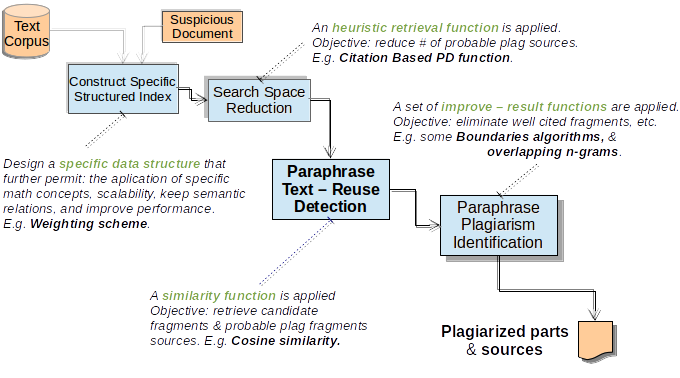
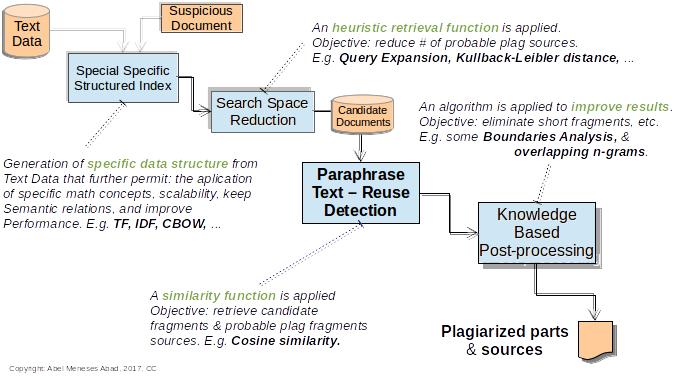
[doc] Adding section of Types of Plagiarism, & some sections 	of Text Reuse Detection Chapter. E.g.: Types of Reuse. [design] New version of Text Reuse Detection Flow. [dev] Adding some codes for better visualization of text-fonts, 	& images.
[TODO] Diapo matching paraphrase types vs types of similarity
	distances.
	Diapos with my apportations & planned papers.

diff --git a/revealjs-md-presentation/plugin/markdown/marked.js b/revealjs-md-presentation/plugin/markdown/marked.js
@@ -1,37 +1,6 @@
 /**
  * marked - a markdown parser
- * Copyright (c) 2011-2013, Christopher Jeffrey. (MIT Licensed)
+ * Copyright (c) 2011-2014, Christopher Jeffrey. (MIT Licensed)
  * https://github.com/chjj/marked
  */
-
-(function(){var block={newline:/^\n+/,code:/^( {4}[^\n]+\n*)+/,fences:noop,hr:/^( *[-*_]){3,} *(?:\n+|$)/,heading:/^ *(#{1,6}) *([^\n]+?) *#* *(?:\n+|$)/,nptable:noop,lheading:/^([^\n]+)\n *(=|-){3,} *\n*/,blockquote:/^( *>[^\n]+(\n[^\n]+)*\n*)+/,list:/^( *)(bull) [\s\S]+?(?:hr|\n{2,}(?! )(?!\1bull )\n*|\s*$)/,html:/^ *(?:comment|closed|closing) *(?:\n{2,}|\s*$)/,def:/^ *\[([^\]]+)\]: *<?([^\s>]+)>?(?: +["(]([^\n]+)[")])? *(?:\n+|$)/,table:noop,paragraph:/^((?:[^\n]+\n?(?!hr|heading|lheading|blockquote|tag|def))+)\n*/,
-text:/^[^\n]+/};block.bullet=/(?:[*+-]|\d+\.)/;block.item=/^( *)(bull) [^\n]*(?:\n(?!\1bull )[^\n]*)*/;block.item=replace(block.item,"gm")(/bull/g,block.bullet)();block.list=replace(block.list)(/bull/g,block.bullet)("hr",/\n+(?=(?: *[-*_]){3,} *(?:\n+|$))/)();block._tag="(?!(?:"+"a|em|strong|small|s|cite|q|dfn|abbr|data|time|code"+"|var|samp|kbd|sub|sup|i|b|u|mark|ruby|rt|rp|bdi|bdo"+"|span|br|wbr|ins|del|img)\\b)\\w+(?!:/|@)\\b";block.html=replace(block.html)("comment",/\x3c!--[\s\S]*?--\x3e/)("closed",
-/<(tag)[\s\S]+?<\/\1>/)("closing",/<tag(?:"[^"]*"|'[^']*'|[^'">])*?>/)(/tag/g,block._tag)();block.paragraph=replace(block.paragraph)("hr",block.hr)("heading",block.heading)("lheading",block.lheading)("blockquote",block.blockquote)("tag","<"+block._tag)("def",block.def)();block.normal=merge({},block);block.gfm=merge({},block.normal,{fences:/^ *(`{3,}|~{3,}) *(\S+)? *\n([\s\S]+?)\s*\1 *(?:\n+|$)/,paragraph:/^/});block.gfm.paragraph=replace(block.paragraph)("(?!","(?!"+block.gfm.fences.source.replace("\\1",
-"\\2")+"|")();block.tables=merge({},block.gfm,{nptable:/^ *(\S.*\|.*)\n *([-:]+ *\|[-| :]*)\n((?:.*\|.*(?:\n|$))*)\n*/,table:/^ *\|(.+)\n *\|( *[-:]+[-| :]*)\n((?: *\|.*(?:\n|$))*)\n*/});function Lexer(options){this.tokens=[];this.tokens.links={};this.options=options||marked.defaults;this.rules=block.normal;if(this.options.gfm)if(this.options.tables)this.rules=block.tables;else this.rules=block.gfm}Lexer.rules=block;Lexer.lex=function(src,options){var lexer=new Lexer(options);return lexer.lex(src)};
-Lexer.prototype.lex=function(src){src=src.replace(/\r\n|\r/g,"\n").replace(/\t/g,"    ").replace(/\u00a0/g," ").replace(/\u2424/g,"\n");return this.token(src,true)};Lexer.prototype.token=function(src,top){var src=src.replace(/^ +$/gm,""),next,loose,cap,bull,b,item,space,i,l;while(src){if(cap=this.rules.newline.exec(src)){src=src.substring(cap[0].length);if(cap[0].length>1)this.tokens.push({type:"space"})}if(cap=this.rules.code.exec(src)){src=src.substring(cap[0].length);cap=cap[0].replace(/^ {4}/gm,
-"");this.tokens.push({type:"code",text:!this.options.pedantic?cap.replace(/\n+$/,""):cap});continue}if(cap=this.rules.fences.exec(src)){src=src.substring(cap[0].length);this.tokens.push({type:"code",lang:cap[2],text:cap[3]});continue}if(cap=this.rules.heading.exec(src)){src=src.substring(cap[0].length);this.tokens.push({type:"heading",depth:cap[1].length,text:cap[2]});continue}if(top&&(cap=this.rules.nptable.exec(src))){src=src.substring(cap[0].length);item={type:"table",header:cap[1].replace(/^ *| *\| *$/g,
-"").split(/ *\| */),align:cap[2].replace(/^ *|\| *$/g,"").split(/ *\| */),cells:cap[3].replace(/\n$/,"").split("\n")};for(i=0;i<item.align.length;i++)if(/^ *-+: *$/.test(item.align[i]))item.align[i]="right";else if(/^ *:-+: *$/.test(item.align[i]))item.align[i]="center";else if(/^ *:-+ *$/.test(item.align[i]))item.align[i]="left";else item.align[i]=null;for(i=0;i<item.cells.length;i++)item.cells[i]=item.cells[i].split(/ *\| */);this.tokens.push(item);continue}if(cap=this.rules.lheading.exec(src)){src=
-src.substring(cap[0].length);this.tokens.push({type:"heading",depth:cap[2]==="="?1:2,text:cap[1]});continue}if(cap=this.rules.hr.exec(src)){src=src.substring(cap[0].length);this.tokens.push({type:"hr"});continue}if(cap=this.rules.blockquote.exec(src)){src=src.substring(cap[0].length);this.tokens.push({type:"blockquote_start"});cap=cap[0].replace(/^ *> ?/gm,"");this.token(cap,top);this.tokens.push({type:"blockquote_end"});continue}if(cap=this.rules.list.exec(src)){src=src.substring(cap[0].length);
-bull=cap[2];this.tokens.push({type:"list_start",ordered:bull.length>1});cap=cap[0].match(this.rules.item);next=false;l=cap.length;i=0;for(;i<l;i++){item=cap[i];space=item.length;item=item.replace(/^ *([*+-]|\d+\.) +/,"");if(~item.indexOf("\n ")){space-=item.length;item=!this.options.pedantic?item.replace(new RegExp("^ {1,"+space+"}","gm"),""):item.replace(/^ {1,4}/gm,"")}if(this.options.smartLists&&i!==l-1){b=block.bullet.exec(cap[i+1])[0];if(bull!==b&&!(bull.length>1&&b.length>1)){src=cap.slice(i+
-1).join("\n")+src;i=l-1}}loose=next||/\n\n(?!\s*$)/.test(item);if(i!==l-1){next=item[item.length-1]==="\n";if(!loose)loose=next}this.tokens.push({type:loose?"loose_item_start":"list_item_start"});this.token(item,false);this.tokens.push({type:"list_item_end"})}this.tokens.push({type:"list_end"});continue}if(cap=this.rules.html.exec(src)){src=src.substring(cap[0].length);this.tokens.push({type:this.options.sanitize?"paragraph":"html",pre:cap[1]==="pre"||cap[1]==="script",text:cap[0]});continue}if(top&&
-(cap=this.rules.def.exec(src))){src=src.substring(cap[0].length);this.tokens.links[cap[1].toLowerCase()]={href:cap[2],title:cap[3]};continue}if(top&&(cap=this.rules.table.exec(src))){src=src.substring(cap[0].length);item={type:"table",header:cap[1].replace(/^ *| *\| *$/g,"").split(/ *\| */),align:cap[2].replace(/^ *|\| *$/g,"").split(/ *\| */),cells:cap[3].replace(/(?: *\| *)?\n$/,"").split("\n")};for(i=0;i<item.align.length;i++)if(/^ *-+: *$/.test(item.align[i]))item.align[i]="right";else if(/^ *:-+: *$/.test(item.align[i]))item.align[i]=
-"center";else if(/^ *:-+ *$/.test(item.align[i]))item.align[i]="left";else item.align[i]=null;for(i=0;i<item.cells.length;i++)item.cells[i]=item.cells[i].replace(/^ *\| *| *\| *$/g,"").split(/ *\| */);this.tokens.push(item);continue}if(top&&(cap=this.rules.paragraph.exec(src))){src=src.substring(cap[0].length);this.tokens.push({type:"paragraph",text:cap[1][cap[1].length-1]==="\n"?cap[1].slice(0,-1):cap[1]});continue}if(cap=this.rules.text.exec(src)){src=src.substring(cap[0].length);this.tokens.push({type:"text",
-text:cap[0]});continue}if(src)throw new Error("Infinite loop on byte: "+src.charCodeAt(0));}return this.tokens};var inline={escape:/^\\([\\`*{}\[\]()#+\-.!_>])/,autolink:/^<([^ >]+(@|:\/)[^ >]+)>/,url:noop,tag:/^\x3c!--[\s\S]*?--\x3e|^<\/?\w+(?:"[^"]*"|'[^']*'|[^'">])*?>/,link:/^!?\[(inside)\]\(href\)/,reflink:/^!?\[(inside)\]\s*\[([^\]]*)\]/,nolink:/^!?\[((?:\[[^\]]*\]|[^\[\]])*)\]/,strong:/^__([\s\S]+?)__(?!_)|^\*\*([\s\S]+?)\*\*(?!\*)/,em:/^\b_((?:__|[\s\S])+?)_\b|^\*((?:\*\*|[\s\S])+?)\*(?!\*)/,
-code:/^(`+)\s*([\s\S]*?[^`])\s*\1(?!`)/,br:/^ {2,}\n(?!\s*$)/,del:noop,text:/^[\s\S]+?(?=[\\<!\[_*`]| {2,}\n|$)/};inline._inside=/(?:\[[^\]]*\]|[^\]]|\](?=[^\[]*\]))*/;inline._href=/\s*<?([^\s]*?)>?(?:\s+['"]([\s\S]*?)['"])?\s*/;inline.link=replace(inline.link)("inside",inline._inside)("href",inline._href)();inline.reflink=replace(inline.reflink)("inside",inline._inside)();inline.normal=merge({},inline);inline.pedantic=merge({},inline.normal,{strong:/^__(?=\S)([\s\S]*?\S)__(?!_)|^\*\*(?=\S)([\s\S]*?\S)\*\*(?!\*)/,
-em:/^_(?=\S)([\s\S]*?\S)_(?!_)|^\*(?=\S)([\s\S]*?\S)\*(?!\*)/});inline.gfm=merge({},inline.normal,{escape:replace(inline.escape)("])","~|])")(),url:/^(https?:\/\/[^\s<]+[^<.,:;"')\]\s])/,del:/^~~(?=\S)([\s\S]*?\S)~~/,text:replace(inline.text)("]|","~]|")("|","|https?://|")()});inline.breaks=merge({},inline.gfm,{br:replace(inline.br)("{2,}","*")(),text:replace(inline.gfm.text)("{2,}","*")()});function InlineLexer(links,options){this.options=options||marked.defaults;this.links=links;this.rules=inline.normal;
-if(!this.links)throw new Error("Tokens array requires a `links` property.");if(this.options.gfm)if(this.options.breaks)this.rules=inline.breaks;else this.rules=inline.gfm;else if(this.options.pedantic)this.rules=inline.pedantic}InlineLexer.rules=inline;InlineLexer.output=function(src,links,options){var inline=new InlineLexer(links,options);return inline.output(src)};InlineLexer.prototype.output=function(src){var out="",link,text,href,cap;while(src){if(cap=this.rules.escape.exec(src)){src=src.substring(cap[0].length);
-out+=cap[1];continue}if(cap=this.rules.autolink.exec(src)){src=src.substring(cap[0].length);if(cap[2]==="@"){text=cap[1][6]===":"?this.mangle(cap[1].substring(7)):this.mangle(cap[1]);href=this.mangle("mailto:")+text}else{text=escape(cap[1]);href=text}out+='<a href="'+href+'">'+text+"</a>";continue}if(cap=this.rules.url.exec(src)){src=src.substring(cap[0].length);text=escape(cap[1]);href=text;out+='<a href="'+href+'">'+text+"</a>";continue}if(cap=this.rules.tag.exec(src)){src=src.substring(cap[0].length);
-out+=this.options.sanitize?escape(cap[0]):cap[0];continue}if(cap=this.rules.link.exec(src)){src=src.substring(cap[0].length);out+=this.outputLink(cap,{href:cap[2],title:cap[3]});continue}if((cap=this.rules.reflink.exec(src))||(cap=this.rules.nolink.exec(src))){src=src.substring(cap[0].length);link=(cap[2]||cap[1]).replace(/\s+/g," ");link=this.links[link.toLowerCase()];if(!link||!link.href){out+=cap[0][0];src=cap[0].substring(1)+src;continue}out+=this.outputLink(cap,link);continue}if(cap=this.rules.strong.exec(src)){src=
-src.substring(cap[0].length);out+="<strong>"+this.output(cap[2]||cap[1])+"</strong>";continue}if(cap=this.rules.em.exec(src)){src=src.substring(cap[0].length);out+="<em>"+this.output(cap[2]||cap[1])+"</em>";continue}if(cap=this.rules.code.exec(src)){src=src.substring(cap[0].length);out+="<code>"+escape(cap[2],true)+"</code>";continue}if(cap=this.rules.br.exec(src)){src=src.substring(cap[0].length);out+="<br>";continue}if(cap=this.rules.del.exec(src)){src=src.substring(cap[0].length);out+="<del>"+
-this.output(cap[1])+"</del>";continue}if(cap=this.rules.text.exec(src)){src=src.substring(cap[0].length);out+=escape(cap[0]);continue}if(src)throw new Error("Infinite loop on byte: "+src.charCodeAt(0));}return out};InlineLexer.prototype.outputLink=function(cap,link){if(cap[0][0]!=="!")return'<a href="'+escape(link.href)+'"'+(link.title?' title="'+escape(link.title)+'"':"")+">"+this.output(cap[1])+"</a>";else return'<img src="'+escape(link.href)+'" alt="'+escape(cap[1])+'"'+(link.title?' title="'+
-escape(link.title)+'"':"")+">"};InlineLexer.prototype.smartypants=function(text){if(!this.options.smartypants)return text;return text.replace(/--/g,"\u2014").replace(/'([^']*)'/g,"\u2018$1\u2019").replace(/"([^"]*)"/g,"\u201c$1\u201d").replace(/\.{3}/g,"\u2026")};InlineLexer.prototype.mangle=function(text){var out="",l=text.length,i=0,ch;for(;i<l;i++){ch=text.charCodeAt(i);if(Math.random()>0.5)ch="x"+ch.toString(16);out+="&#"+ch+";"}return out};function Parser(options){this.tokens=[];this.token=null;
-this.options=options||marked.defaults}Parser.parse=function(src,options){var parser=new Parser(options);return parser.parse(src)};Parser.prototype.parse=function(src){this.inline=new InlineLexer(src.links,this.options);this.tokens=src.reverse();var out="";while(this.next())out+=this.tok();return out};Parser.prototype.next=function(){return this.token=this.tokens.pop()};Parser.prototype.peek=function(){return this.tokens[this.tokens.length-1]||0};Parser.prototype.parseText=function(){var body=this.token.text;
-while(this.peek().type==="text")body+="\n"+this.next().text;return this.inline.output(body)};Parser.prototype.tok=function(){switch(this.token.type){case "space":return"";case "hr":return"<hr>\n";case "heading":return"<h"+this.token.depth+">"+this.inline.output(this.token.text)+"</h"+this.token.depth+">\n";case "code":if(this.options.highlight){var code=this.options.highlight(this.token.text,this.token.lang);if(code!=null&&code!==this.token.text){this.token.escaped=true;this.token.text=code}}if(!this.token.escaped)this.token.text=
-escape(this.token.text,true);return"<pre><code"+(this.token.lang?' class="'+this.options.langPrefix+this.token.lang+'"':"")+">"+this.token.text+"</code></pre>\n";case "table":var body="",heading,i,row,cell,j;body+="<thead>\n<tr>\n";for(i=0;i<this.token.header.length;i++){heading=this.inline.output(this.token.header[i]);body+=this.token.align[i]?'<th align="'+this.token.align[i]+'">'+heading+"</th>\n":"<th>"+heading+"</th>\n"}body+="</tr>\n</thead>\n";body+="<tbody>\n";for(i=0;i<this.token.cells.length;i++){row=
-this.token.cells[i];body+="<tr>\n";for(j=0;j<row.length;j++){cell=this.inline.output(row[j]);body+=this.token.align[j]?'<td align="'+this.token.align[j]+'">'+cell+"</td>\n":"<td>"+cell+"</td>\n"}body+="</tr>\n"}body+="</tbody>\n";return"<table>\n"+body+"</table>\n";case "blockquote_start":var body="";while(this.next().type!=="blockquote_end")body+=this.tok();return"<blockquote>\n"+body+"</blockquote>\n";case "list_start":var type=this.token.ordered?"ol":"ul",body="";while(this.next().type!=="list_end")body+=
-this.tok();return"<"+type+">\n"+body+"</"+type+">\n";case "list_item_start":var body="";while(this.next().type!=="list_item_end")body+=this.token.type==="text"?this.parseText():this.tok();return"<li>"+body+"</li>\n";case "loose_item_start":var body="";while(this.next().type!=="list_item_end")body+=this.tok();return"<li>"+body+"</li>\n";case "html":return!this.token.pre&&!this.options.pedantic?this.inline.output(this.token.text):this.token.text;case "paragraph":return"<p>"+this.inline.output(this.token.text)+
-"</p>\n";case "text":return"<p>"+this.parseText()+"</p>\n"}};function escape(html,encode){return html.replace(!encode?/&(?!#?\w+;)/g:/&/g,"&amp;").replace(/</g,"&lt;").replace(/>/g,"&gt;").replace(/"/g,"&quot;").replace(/'/g,"&#39;")}function replace(regex,opt){regex=regex.source;opt=opt||"";return function self(name,val){if(!name)return new RegExp(regex,opt);val=val.source||val;val=val.replace(/(^|[^\[])\^/g,"$1");regex=regex.replace(name,val);return self}}function noop(){}noop.exec=noop;function merge(obj){var i=
-1,target,key;for(;i<arguments.length;i++){target=arguments[i];for(key in target)if(Object.prototype.hasOwnProperty.call(target,key))obj[key]=target[key]}return obj}function marked(src,opt,callback){if(callback||typeof opt==="function"){if(!callback){callback=opt;opt=null}if(opt)opt=merge({},marked.defaults,opt);var tokens=Lexer.lex(tokens,opt),highlight=opt.highlight,pending=0,l=tokens.length,i=0;if(!highlight||highlight.length<3)return callback(null,Parser.parse(tokens,opt));var done=function(){delete opt.highlight;
-var out=Parser.parse(tokens,opt);opt.highlight=highlight;return callback(null,out)};for(;i<l;i++)(function(token){if(token.type!=="code")return;pending++;return highlight(token.text,token.lang,function(err,code){if(code==null||code===token.text)return--pending||done();token.text=code;token.escaped=true;--pending||done()})})(tokens[i]);return}try{if(opt)opt=merge({},marked.defaults,opt);return Parser.parse(Lexer.lex(src,opt),opt)}catch(e){e.message+="\nPlease report this to https://github.com/chjj/marked.";
-if((opt||marked.defaults).silent)return"<p>An error occured:</p><pre>"+escape(e.message+"",true)+"</pre>";throw e;}}marked.options=marked.setOptions=function(opt){merge(marked.defaults,opt);return marked};marked.defaults={gfm:true,tables:true,breaks:false,pedantic:false,sanitize:false,smartLists:false,silent:false,highlight:null,langPrefix:""};marked.Parser=Parser;marked.parser=Parser.parse;marked.Lexer=Lexer;marked.lexer=Lexer.lex;marked.InlineLexer=InlineLexer;marked.inlineLexer=InlineLexer.output;
-marked.parse=marked;if(typeof exports==="object")module.exports=marked;else if(typeof define==="function"&&define.amd)define(function(){return marked});else this.marked=marked}).call(function(){return this||(typeof window!=="undefined"?window:global)}());
+(function(){function e(e){this.tokens=[],this.tokens.links={},this.options=e||a.defaults,this.rules=p.normal,this.options.gfm&&(this.rules=this.options.tables?p.tables:p.gfm)}function t(e,t){if(this.options=t||a.defaults,this.links=e,this.rules=u.normal,this.renderer=this.options.renderer||new n,this.renderer.options=this.options,!this.links)throw new Error("Tokens array requires a `links` property.");this.options.gfm?this.rules=this.options.breaks?u.breaks:u.gfm:this.options.pedantic&&(this.rules=u.pedantic)}function n(e){this.options=e||{}}function r(e){this.tokens=[],this.token=null,this.options=e||a.defaults,this.options.renderer=this.options.renderer||new n,this.renderer=this.options.renderer,this.renderer.options=this.options}function s(e,t){return e.replace(t?/&/g:/&(?!#?\w+;)/g,"&amp;").replace(/</g,"&lt;").replace(/>/g,"&gt;").replace(/"/g,"&quot;").replace(/'/g,"&#39;")}function i(e){return e.replace(/&([#\w]+);/g,function(e,t){return t=t.toLowerCase(),"colon"===t?":":"#"===t.charAt(0)?String.fromCharCode("x"===t.charAt(1)?parseInt(t.substring(2),16):+t.substring(1)):""})}function l(e,t){return e=e.source,t=t||"",function n(r,s){return r?(s=s.source||s,s=s.replace(/(^|[^\[])\^/g,"$1"),e=e.replace(r,s),n):new RegExp(e,t)}}function o(){}function h(e){for(var t,n,r=1;r<arguments.length;r++){t=arguments[r];for(n in t)Object.prototype.hasOwnProperty.call(t,n)&&(e[n]=t[n])}return e}function a(t,n,i){if(i||"function"==typeof n){i||(i=n,n=null),n=h({},a.defaults,n||{});var l,o,p=n.highlight,u=0;try{l=e.lex(t,n)}catch(c){return i(c)}o=l.length;var g=function(e){if(e)return n.highlight=p,i(e);var t;try{t=r.parse(l,n)}catch(s){e=s}return n.highlight=p,e?i(e):i(null,t)};if(!p||p.length<3)return g();if(delete n.highlight,!o)return g();for(;u<l.length;u++)!function(e){return"code"!==e.type?--o||g():p(e.text,e.lang,function(t,n){return t?g(t):null==n||n===e.text?--o||g():(e.text=n,e.escaped=!0,void(--o||g()))})}(l[u])}else try{return n&&(n=h({},a.defaults,n)),r.parse(e.lex(t,n),n)}catch(c){if(c.message+="\nPlease report this to https://github.com/chjj/marked.",(n||a.defaults).silent)return"<p>An error occured:</p><pre>"+s(c.message+"",!0)+"</pre>";throw c}}var p={newline:/^\n+/,code:/^( {4}[^\n]+\n*)+/,fences:o,hr:/^( *[-*_]){3,} *(?:\n+|$)/,heading:/^ *(#{1,6}) *([^\n]+?) *#* *(?:\n+|$)/,nptable:o,lheading:/^([^\n]+)\n *(=|-){2,} *(?:\n+|$)/,blockquote:/^( *>[^\n]+(\n(?!def)[^\n]+)*\n*)+/,list:/^( *)(bull) [\s\S]+?(?:hr|def|\n{2,}(?! )(?!\1bull )\n*|\s*$)/,html:/^ *(?:comment *(?:\n|\s*$)|closed *(?:\n{2,}|\s*$)|closing *(?:\n{2,}|\s*$))/,def:/^ *\[([^\]]+)\]: *<?([^\s>]+)>?(?: +["(]([^\n]+)[")])? *(?:\n+|$)/,table:o,paragraph:/^((?:[^\n]+\n?(?!hr|heading|lheading|blockquote|tag|def))+)\n*/,text:/^[^\n]+/};p.bullet=/(?:[*+-]|\d+\.)/,p.item=/^( *)(bull) [^\n]*(?:\n(?!\1bull )[^\n]*)*/,p.item=l(p.item,"gm")(/bull/g,p.bullet)(),p.list=l(p.list)(/bull/g,p.bullet)("hr","\\n+(?=\\1?(?:[-*_] *){3,}(?:\\n+|$))")("def","\\n+(?="+p.def.source+")")(),p.blockquote=l(p.blockquote)("def",p.def)(),p._tag="(?!(?:a|em|strong|small|s|cite|q|dfn|abbr|data|time|code|var|samp|kbd|sub|sup|i|b|u|mark|ruby|rt|rp|bdi|bdo|span|br|wbr|ins|del|img)\\b)\\w+(?!:/|[^\\w\\s@]*@)\\b",p.html=l(p.html)("comment",/<!--[\s\S]*?-->/)("closed",/<(tag)[\s\S]+?<\/\1>/)("closing",/<tag(?:"[^"]*"|'[^']*'|[^'">])*?>/)(/tag/g,p._tag)(),p.paragraph=l(p.paragraph)("hr",p.hr)("heading",p.heading)("lheading",p.lheading)("blockquote",p.blockquote)("tag","<"+p._tag)("def",p.def)(),p.normal=h({},p),p.gfm=h({},p.normal,{fences:/^ *(`{3,}|~{3,}) *(\S+)? *\n([\s\S]+?)\s*\1 *(?:\n+|$)/,paragraph:/^/}),p.gfm.paragraph=l(p.paragraph)("(?!","(?!"+p.gfm.fences.source.replace("\\1","\\2")+"|"+p.list.source.replace("\\1","\\3")+"|")(),p.tables=h({},p.gfm,{nptable:/^ *(\S.*\|.*)\n *([-:]+ *\|[-| :]*)\n((?:.*\|.*(?:\n|$))*)\n*/,table:/^ *\|(.+)\n *\|( *[-:]+[-| :]*)\n((?: *\|.*(?:\n|$))*)\n*/}),e.rules=p,e.lex=function(t,n){var r=new e(n);return r.lex(t)},e.prototype.lex=function(e){return e=e.replace(/\r\n|\r/g,"\n").replace(/\t/g,"    ").replace(/\u00a0/g," ").replace(/\u2424/g,"\n"),this.token(e,!0)},e.prototype.token=function(e,t,n){for(var r,s,i,l,o,h,a,u,c,e=e.replace(/^ +$/gm,"");e;)if((i=this.rules.newline.exec(e))&&(e=e.substring(i[0].length),i[0].length>1&&this.tokens.push({type:"space"})),i=this.rules.code.exec(e))e=e.substring(i[0].length),i=i[0].replace(/^ {4}/gm,""),this.tokens.push({type:"code",text:this.options.pedantic?i:i.replace(/\n+$/,"")});else if(i=this.rules.fences.exec(e))e=e.substring(i[0].length),this.tokens.push({type:"code",lang:i[2],text:i[3]});else if(i=this.rules.heading.exec(e))e=e.substring(i[0].length),this.tokens.push({type:"heading",depth:i[1].length,text:i[2]});else if(t&&(i=this.rules.nptable.exec(e))){for(e=e.substring(i[0].length),h={type:"table",header:i[1].replace(/^ *| *\| *$/g,"").split(/ *\| */),align:i[2].replace(/^ *|\| *$/g,"").split(/ *\| */),cells:i[3].replace(/\n$/,"").split("\n")},u=0;u<h.align.length;u++)h.align[u]=/^ *-+: *$/.test(h.align[u])?"right":/^ *:-+: *$/.test(h.align[u])?"center":/^ *:-+ *$/.test(h.align[u])?"left":null;for(u=0;u<h.cells.length;u++)h.cells[u]=h.cells[u].split(/ *\| */);this.tokens.push(h)}else if(i=this.rules.lheading.exec(e))e=e.substring(i[0].length),this.tokens.push({type:"heading",depth:"="===i[2]?1:2,text:i[1]});else if(i=this.rules.hr.exec(e))e=e.substring(i[0].length),this.tokens.push({type:"hr"});else if(i=this.rules.blockquote.exec(e))e=e.substring(i[0].length),this.tokens.push({type:"blockquote_start"}),i=i[0].replace(/^ *> ?/gm,""),this.token(i,t,!0),this.tokens.push({type:"blockquote_end"});else if(i=this.rules.list.exec(e)){for(e=e.substring(i[0].length),l=i[2],this.tokens.push({type:"list_start",ordered:l.length>1}),i=i[0].match(this.rules.item),r=!1,c=i.length,u=0;c>u;u++)h=i[u],a=h.length,h=h.replace(/^ *([*+-]|\d+\.) +/,""),~h.indexOf("\n ")&&(a-=h.length,h=this.options.pedantic?h.replace(/^ {1,4}/gm,""):h.replace(new RegExp("^ {1,"+a+"}","gm"),"")),this.options.smartLists&&u!==c-1&&(o=p.bullet.exec(i[u+1])[0],l===o||l.length>1&&o.length>1||(e=i.slice(u+1).join("\n")+e,u=c-1)),s=r||/\n\n(?!\s*$)/.test(h),u!==c-1&&(r="\n"===h.charAt(h.length-1),s||(s=r)),this.tokens.push({type:s?"loose_item_start":"list_item_start"}),this.token(h,!1,n),this.tokens.push({type:"list_item_end"});this.tokens.push({type:"list_end"})}else if(i=this.rules.html.exec(e))e=e.substring(i[0].length),this.tokens.push({type:this.options.sanitize?"paragraph":"html",pre:"pre"===i[1]||"script"===i[1]||"style"===i[1],text:i[0]});else if(!n&&t&&(i=this.rules.def.exec(e)))e=e.substring(i[0].length),this.tokens.links[i[1].toLowerCase()]={href:i[2],title:i[3]};else if(t&&(i=this.rules.table.exec(e))){for(e=e.substring(i[0].length),h={type:"table",header:i[1].replace(/^ *| *\| *$/g,"").split(/ *\| */),align:i[2].replace(/^ *|\| *$/g,"").split(/ *\| */),cells:i[3].replace(/(?: *\| *)?\n$/,"").split("\n")},u=0;u<h.align.length;u++)h.align[u]=/^ *-+: *$/.test(h.align[u])?"right":/^ *:-+: *$/.test(h.align[u])?"center":/^ *:-+ *$/.test(h.align[u])?"left":null;for(u=0;u<h.cells.length;u++)h.cells[u]=h.cells[u].replace(/^ *\| *| *\| *$/g,"").split(/ *\| */);this.tokens.push(h)}else if(t&&(i=this.rules.paragraph.exec(e)))e=e.substring(i[0].length),this.tokens.push({type:"paragraph",text:"\n"===i[1].charAt(i[1].length-1)?i[1].slice(0,-1):i[1]});else if(i=this.rules.text.exec(e))e=e.substring(i[0].length),this.tokens.push({type:"text",text:i[0]});else if(e)throw new Error("Infinite loop on byte: "+e.charCodeAt(0));return this.tokens};var u={escape:/^\\([\\`*{}\[\]()#+\-.!_>])/,autolink:/^<([^ >]+(@|:\/)[^ >]+)>/,url:o,tag:/^<!--[\s\S]*?-->|^<\/?\w+(?:"[^"]*"|'[^']*'|[^'">])*?>/,link:/^!?\[(inside)\]\(href\)/,reflink:/^!?\[(inside)\]\s*\[([^\]]*)\]/,nolink:/^!?\[((?:\[[^\]]*\]|[^\[\]])*)\]/,strong:/^__([\s\S]+?)__(?!_)|^\*\*([\s\S]+?)\*\*(?!\*)/,em:/^\b_((?:__|[\s\S])+?)_\b|^\*((?:\*\*|[\s\S])+?)\*(?!\*)/,code:/^(`+)\s*([\s\S]*?[^`])\s*\1(?!`)/,br:/^ {2,}\n(?!\s*$)/,del:o,text:/^[\s\S]+?(?=[\\<!\[_*`]| {2,}\n|$)/};u._inside=/(?:\[[^\]]*\]|[^\[\]]|\](?=[^\[]*\]))*/,u._href=/\s*<?([\s\S]*?)>?(?:\s+['"]([\s\S]*?)['"])?\s*/,u.link=l(u.link)("inside",u._inside)("href",u._href)(),u.reflink=l(u.reflink)("inside",u._inside)(),u.normal=h({},u),u.pedantic=h({},u.normal,{strong:/^__(?=\S)([\s\S]*?\S)__(?!_)|^\*\*(?=\S)([\s\S]*?\S)\*\*(?!\*)/,em:/^_(?=\S)([\s\S]*?\S)_(?!_)|^\*(?=\S)([\s\S]*?\S)\*(?!\*)/}),u.gfm=h({},u.normal,{escape:l(u.escape)("])","~|])")(),url:/^(https?:\/\/[^\s<]+[^<.,:;"')\]\s])/,del:/^~~(?=\S)([\s\S]*?\S)~~/,text:l(u.text)("]|","~]|")("|","|https?://|")()}),u.breaks=h({},u.gfm,{br:l(u.br)("{2,}","*")(),text:l(u.gfm.text)("{2,}","*")()}),t.rules=u,t.output=function(e,n,r){var s=new t(n,r);return s.output(e)},t.prototype.output=function(e){for(var t,n,r,i,l="";e;)if(i=this.rules.escape.exec(e))e=e.substring(i[0].length),l+=i[1];else if(i=this.rules.autolink.exec(e))e=e.substring(i[0].length),"@"===i[2]?(n=this.mangle(":"===i[1].charAt(6)?i[1].substring(7):i[1]),r=this.mangle("mailto:")+n):(n=s(i[1]),r=n),l+=this.renderer.link(r,null,n);else if(this.inLink||!(i=this.rules.url.exec(e))){if(i=this.rules.tag.exec(e))!this.inLink&&/^<a /i.test(i[0])?this.inLink=!0:this.inLink&&/^<\/a>/i.test(i[0])&&(this.inLink=!1),e=e.substring(i[0].length),l+=this.options.sanitize?s(i[0]):i[0];else if(i=this.rules.link.exec(e))e=e.substring(i[0].length),this.inLink=!0,l+=this.outputLink(i,{href:i[2],title:i[3]}),this.inLink=!1;else if((i=this.rules.reflink.exec(e))||(i=this.rules.nolink.exec(e))){if(e=e.substring(i[0].length),t=(i[2]||i[1]).replace(/\s+/g," "),t=this.links[t.toLowerCase()],!t||!t.href){l+=i[0].charAt(0),e=i[0].substring(1)+e;continue}this.inLink=!0,l+=this.outputLink(i,t),this.inLink=!1}else if(i=this.rules.strong.exec(e))e=e.substring(i[0].length),l+=this.renderer.strong(this.output(i[2]||i[1]));else if(i=this.rules.em.exec(e))e=e.substring(i[0].length),l+=this.renderer.em(this.output(i[2]||i[1]));else if(i=this.rules.code.exec(e))e=e.substring(i[0].length),l+=this.renderer.codespan(s(i[2],!0));else if(i=this.rules.br.exec(e))e=e.substring(i[0].length),l+=this.renderer.br();else if(i=this.rules.del.exec(e))e=e.substring(i[0].length),l+=this.renderer.del(this.output(i[1]));else if(i=this.rules.text.exec(e))e=e.substring(i[0].length),l+=s(this.smartypants(i[0]));else if(e)throw new Error("Infinite loop on byte: "+e.charCodeAt(0))}else e=e.substring(i[0].length),n=s(i[1]),r=n,l+=this.renderer.link(r,null,n);return l},t.prototype.outputLink=function(e,t){var n=s(t.href),r=t.title?s(t.title):null;return"!"!==e[0].charAt(0)?this.renderer.link(n,r,this.output(e[1])):this.renderer.image(n,r,s(e[1]))},t.prototype.smartypants=function(e){return this.options.smartypants?e.replace(/--/g,"—").replace(/(^|[-\u2014/(\[{"\s])'/g,"$1‘").replace(/'/g,"’").replace(/(^|[-\u2014/(\[{\u2018\s])"/g,"$1“").replace(/"/g,"”").replace(/\.{3}/g,"…"):e},t.prototype.mangle=function(e){for(var t,n="",r=e.length,s=0;r>s;s++)t=e.charCodeAt(s),Math.random()>.5&&(t="x"+t.toString(16)),n+="&#"+t+";";return n},n.prototype.code=function(e,t,n){if(this.options.highlight){var r=this.options.highlight(e,t);null!=r&&r!==e&&(n=!0,e=r)}return t?'<pre><code class="'+this.options.langPrefix+s(t,!0)+'">'+(n?e:s(e,!0))+"\n</code></pre>\n":"<pre><code>"+(n?e:s(e,!0))+"\n</code></pre>"},n.prototype.blockquote=function(e){return"<blockquote>\n"+e+"</blockquote>\n"},n.prototype.html=function(e){return e},n.prototype.heading=function(e,t,n){return"<h"+t+' id="'+this.options.headerPrefix+n.toLowerCase().replace(/[^\w]+/g,"-")+'">'+e+"</h"+t+">\n"},n.prototype.hr=function(){return this.options.xhtml?"<hr/>\n":"<hr>\n"},n.prototype.list=function(e,t){var n=t?"ol":"ul";return"<"+n+">\n"+e+"</"+n+">\n"},n.prototype.listitem=function(e){return"<li>"+e+"</li>\n"},n.prototype.paragraph=function(e){return"<p>"+e+"</p>\n"},n.prototype.table=function(e,t){return"<table>\n<thead>\n"+e+"</thead>\n<tbody>\n"+t+"</tbody>\n</table>\n"},n.prototype.tablerow=function(e){return"<tr>\n"+e+"</tr>\n"},n.prototype.tablecell=function(e,t){var n=t.header?"th":"td",r=t.align?"<"+n+' style="text-align:'+t.align+'">':"<"+n+">";return r+e+"</"+n+">\n"},n.prototype.strong=function(e){return"<strong>"+e+"</strong>"},n.prototype.em=function(e){return"<em>"+e+"</em>"},n.prototype.codespan=function(e){return"<code>"+e+"</code>"},n.prototype.br=function(){return this.options.xhtml?"<br/>":"<br>"},n.prototype.del=function(e){return"<del>"+e+"</del>"},n.prototype.link=function(e,t,n){if(this.options.sanitize){try{var r=decodeURIComponent(i(e)).replace(/[^\w:]/g,"").toLowerCase()}catch(s){return""}if(0===r.indexOf("javascript:")||0===r.indexOf("vbscript:"))return""}var l='<a href="'+e+'"';return t&&(l+=' title="'+t+'"'),l+=">"+n+"</a>"},n.prototype.image=function(e,t,n){var r='<img src="'+e+'" alt="'+n+'" width="150%" height="150%"';return t&&(r+=' title="'+t+'"'),r+=this.options.xhtml?"/>":">"},r.parse=function(e,t,n){var s=new r(t,n);return s.parse(e)},r.prototype.parse=function(e){this.inline=new t(e.links,this.options,this.renderer),this.tokens=e.reverse();for(var n="";this.next();)n+=this.tok();return n},r.prototype.next=function(){return this.token=this.tokens.pop()},r.prototype.peek=function(){return this.tokens[this.tokens.length-1]||0},r.prototype.parseText=function(){for(var e=this.token.text;"text"===this.peek().type;)e+="\n"+this.next().text;return this.inline.output(e)},r.prototype.tok=function(){switch(this.token.type){case"space":return"";case"hr":return this.renderer.hr();case"heading":return this.renderer.heading(this.inline.output(this.token.text),this.token.depth,this.token.text);case"code":return this.renderer.code(this.token.text,this.token.lang,this.token.escaped);case"table":var e,t,n,r,s,i="",l="";for(n="",e=0;e<this.token.header.length;e++)r={header:!0,align:this.token.align[e]},n+=this.renderer.tablecell(this.inline.output(this.token.header[e]),{header:!0,align:this.token.align[e]});for(i+=this.renderer.tablerow(n),e=0;e<this.token.cells.length;e++){for(t=this.token.cells[e],n="",s=0;s<t.length;s++)n+=this.renderer.tablecell(this.inline.output(t[s]),{header:!1,align:this.token.align[s]});l+=this.renderer.tablerow(n)}return this.renderer.table(i,l);case"blockquote_start":for(var l="";"blockquote_end"!==this.next().type;)l+=this.tok();return this.renderer.blockquote(l);case"list_start":for(var l="",o=this.token.ordered;"list_end"!==this.next().type;)l+=this.tok();return this.renderer.list(l,o);case"list_item_start":for(var l="";"list_item_end"!==this.next().type;)l+="text"===this.token.type?this.parseText():this.tok();return this.renderer.listitem(l);case"loose_item_start":for(var l="";"list_item_end"!==this.next().type;)l+=this.tok();return this.renderer.listitem(l);case"html":var h=this.token.pre||this.options.pedantic?this.token.text:this.inline.output(this.token.text);return this.renderer.html(h);case"paragraph":return this.renderer.paragraph(this.inline.output(this.token.text));case"text":return this.renderer.paragraph(this.parseText())}},o.exec=o,a.options=a.setOptions=function(e){return h(a.defaults,e),a},a.defaults={gfm:!0,tables:!0,breaks:!1,pedantic:!1,sanitize:!1,smartLists:!1,silent:!1,highlight:null,langPrefix:"lang-",smartypants:!1,headerPrefix:"",renderer:new n,xhtml:!1},a.Parser=r,a.parser=r.parse,a.Renderer=n,a.Lexer=e,a.lexer=e.lex,a.InlineLexer=t,a.inlineLexer=t.output,a.parse=a,"undefined"!=typeof module&&"object"==typeof exports?module.exports=a:"function"==typeof define&&define.amd?define(function(){return a}):this.marked=a}).call(function(){return this||("undefined"!=typeof window?window:global)}());

diff --git a/revealjs-md-presentation/index.html b/revealjs-md-presentation/index.html
@@ -16,7 +16,7 @@
 
         <link rel="stylesheet" href="css/reveal.css">
         <!--- <link rel="stylesheet" href="css/theme/black.css" id="theme"> -->
-        <link rel="stylesheet" href="css/theme/league.css" id="theme">
+        <link rel="stylesheet" href="css/theme/white.css" id="theme">
 
         <link rel="stylesheet" href="css/custom.css">
 
@@ -64,7 +64,7 @@
                 progress: true,
                 history: true,
                 center: true,
-                theme: 'night',
+                theme: 'white',
                 mouseWheel: true,
                 viewDistance: 3,
 
@@ -75,7 +75,7 @@
                     { src: 'lib/js/classList.js', condition: function() { return !document.body.classList; } },
                     { src: 'plugin/markdown/marked.js', condition: function() { return !!document.querySelector( '[data-markdown]' ); } },
                     { src: 'plugin/markdown/markdown.js', condition: function() { return !!document.querySelector( '[data-markdown]' ); } },
-                    { src: 'plugin/highlight/highlight.js', async: true, condition: function() { return !!document.querySelector( 'pre code' ); }, callback: function() { hljs.initHighlightingOnLoad(); } },
+                    { src: 'plugin/highlight/highlight.js', async: true, callback: function() { hljs.initHighlightingOnLoad(); } },
                     { src: 'plugin/zoom-js/zoom.js', async: true },
                     { src: 'plugin/notes/notes.js', async: true }
                 ]

diff --git a/revealjs-md-presentation/css/theme/white.css b/revealjs-md-presentation/css/theme/white.css
@@ -1,3 +1,4 @@
+@import url(../../lib/font/league-gothic/league-gothic.css);
 @import url(../../lib/font/source-sans-pro/source-sans-pro.css);
 /**
  * White theme for reveal.js. This is the opposite of the 'black' theme.
@@ -15,8 +16,8 @@ body {
   background-color: #fff; }
 
 .reveal {
-  font-family: 'Source Sans Pro', Helvetica, sans-serif;
-  font-size: 38px;
+  font-family: 'Lato', sans-serif;
+  font-size: 36px;
   font-weight: normal;
   color: #222; }
 
@@ -35,8 +36,8 @@ body {
 .reveal h1, .reveal h2, .reveal h3, .reveal h4, .reveal h5, .reveal h6 {
   margin: 0 0 20px 0;
   color: #222;
-  font-family: 'Source Sans Pro', Helvetica, sans-serif;
-  font-weight: 600;
+  font-family: 'League Gothic', Impact, sans-serif;
+  font-weight: normal;
   line-height: 1.2;
   letter-spacing: normal;
   text-transform: uppercase;

diff --git a/revealjs-md-presentation/README.md b/revealjs-md-presentation/README.md
@@ -63,7 +63,7 @@ ________________________
 
 --
 
-### Basic Problem of Plagiarism
+### Basic Problem of Plagiarism (cont)
 
 - A third of Turnitin.com papers have significant levels of plagiarism.
 ##### 40 million papers in accordance with Jon Barrie (founder of Turnitin) 2010 report.
@@ -74,20 +74,43 @@ ________________________
 
 ### Types of Plagiarism
 
+- Copy & Paste Plagiarism
+- [Paraphrase Plagiarism]()
+- Cross-Lingual Plagiarism
+- Idea Plagiarism
+- Self Plagiarism
+### 
+##### El Thair et al. *Survey of Plagiarism Detection Methods* (2011).
+##### Meuschke, N. & Gipp, B. *State-of-the-art in detecting academic plagiarism* (2013).
+
 --
 
 ### Paraphrase Plagiarism Recognition
 
 #### [An open issue in computer science?]()
 
+--
+
+### 2011 PAN statistics
+
+##### Results of plagiarism methods competition by types
+
+Other types | Autolow | Manual
+------|-------
+![](../imgs/PAN_2011_D_recall-non_paraphrase_plagiarism_detection_results.jpg) | ![](../imgs/PAN_2011_B_recall-auto-low_paraphrase_plagiarism_detection_results.jpg) | ![](../imgs/PAN_2011_A_recall-manual_paraphrase_plagiarism_detection_results.jpg)
+
+#### Recall in Auto-High paraphrase plagiarism detection is under 0.1.
+
+#### [Paraphrase plagiarism]() detection overall is [less]() than [40%]().
+
 ---
 
 ### Plagiarism has two parts
 
 - Text Reuse Detection (click [→]())
-- [Citation Analysis](#/3/1) (*click [↓]() for a summary*)
+- [Citation Analysis](#/4/1) (*click [↓]() for a summary*)
 ### 
-#### This investigation is about [Text Reuse Detection →](#/4/1)
+#### This investigation is about [Text Reuse Detection →](#/5/1)
 
 --
 
@@ -108,10 +131,50 @@ ________________________
 --
 
 ### Types of Text Reuse
+##### Barrón-Cedeño, Alberto (2012). *On the Mono- and Cross-Language Detection of Text Re-Use and Plagiarism*. PhD Thesis.
+### 
 
-```
-python setup.py install
-```
+- Word for word reuse
+- [Paraphrasing]()
+- Translated re-use
+- Re-use of ideas
+- Re-use of source code
+
+### 
+#### This investigation is about [Paraphrase Text Reuse Detection →](#/6/1)
+#### [Text Reuse Detection Flow](#/5/2) (*click [↓]()*)
+
+--
+
+### Text Reuse Detection Flow
+
+--
+
+![](../doc/Plagiarism_detection_phases.jpg)
+
+--
+
+### Corpus of Text Reuse
+
+#### Also called Plagiarism Corpus
+
+- PAN
+- P4P
+- Wikipedia Plagiarism Short Answers
+
+--
+
+### Research Groups
+
+- 
+
+---
+
+### Paraphrase Text Reuse Detection
+
+--
+
+### Paraphrase Complexity
 
 ---
 
@@ -124,17 +187,3 @@ while (i > 0):
     if A == B:
         return True
 ```
-
----
-
-### 2011 PAN statistics
-
-##### Results of plagiarism methods competition by types
-
-Other types | Autolow | Manual
-------|-------
-![](../imgs/PAN_2011_D_recall-non_paraphrase_plagiarism_detection_results.jpg) | ![](../imgs/PAN_2011_B_recall-auto-low_paraphrase_plagiarism_detection_results.jpg) | ![](../imgs/PAN_2011_A_recall-manual_paraphrase_plagiarism_detection_results.jpg)
-
-#### Recall in Auto-High paraphrase plagiarism detection is under 0.1.
-
-#### [Paraphrase plagiarism]() detection overall is [less]() than [40%]().
